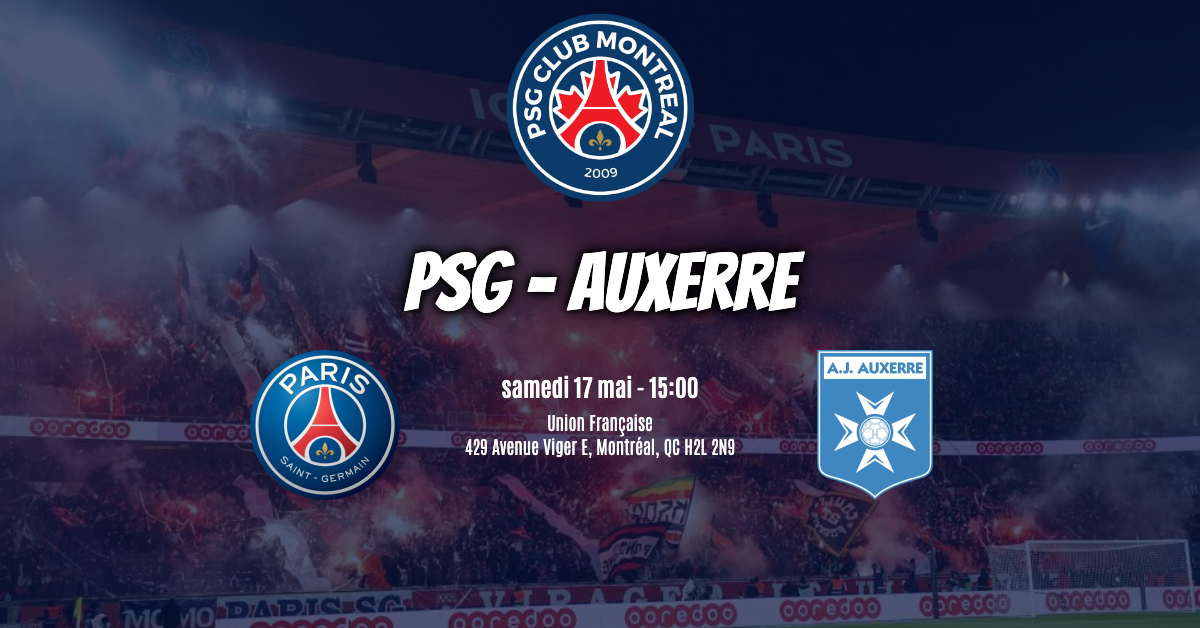
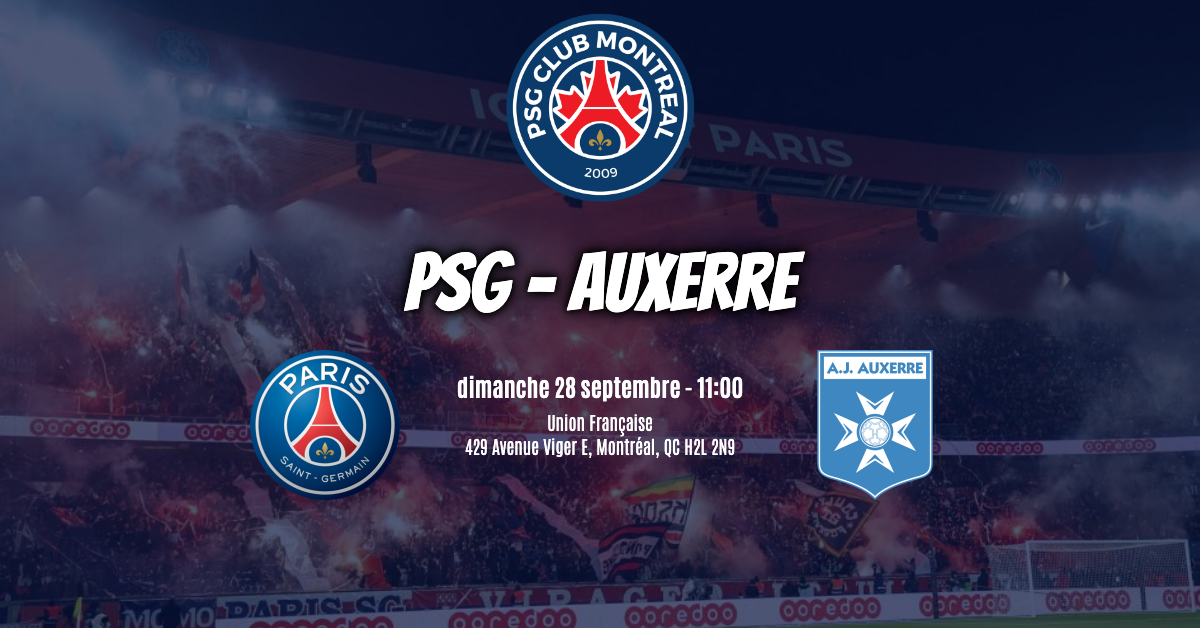
July games

Changed region(s): [[0.37, 0.5748, 0.6167, 0.6354]]

diff --git a/functions/matchGenerator/FootballAPI.js b/functions/matchGenerator/FootballAPI.js
@@ -1,10 +1,12 @@
+// NE SURTOUT PAS SE CONNECTER DIRECTEMENT A FOOTBALLAPI, UTILISER RAPIDAPI AVEC COMPTE GOOGLE @gmail.com
+
 const Match = require('./Match')
 const Generator = require('./generator')
 const moment = require('moment');
 
 var myHeaders = new Headers();
-myHeaders.append("x-rapidapi-key", "240db03edc49d645a20e60ed69bd1239");
-myHeaders.append("x-rapidapi-host", "v3.football.api-sports.io");
+myHeaders.append("x-rapidapi-key", "36a5aeb637msh9f0191ab0f64632p1a4e22jsneeb48d38444a");
+myHeaders.append("x-rapidapi-host", "api-football-v1.p.rapidapi.com");
 
 var requestOptions = {
     method: 'GET',
@@ -16,7 +18,7 @@ var requestOptions = {
 
 const getUpcomingGames = function () {
     return new Promise( (resolve, reject) => {
-        const url = new URL('https://v3.football.api-sports.io/fixtures')
+        const url = new URL('https://api-football-v1.p.rapidapi.com/v3/fixtures')
         const now = moment();
         const today = now.format('YYYY-MM-DD');
         const three_months_from_now = now.add(3, 'months').format('YYYY-MM-DD');

diff --git a/content/en/event/FIFA-Club-World-Cup-PSG-Bayern-M-nchen.md b/content/en/event/FIFA-Club-World-Cup-PSG-Bayern-M-nchen.md
@@ -1,17 +1,17 @@
 ---
-title: Marseille - PSG
-date: 2025-09-21T11:00:00.000-04:00
+title: PSG - Bayern München
+date: 2025-07-05T12:00:00.000-04:00
 publishdate: 2024-01-01T12:00:00.000-04:00
-expiryDate: 2025-09-22T03:00:00.000Z
-featureImage: images/event/Marseille-PSG-Insta.png
+expiryDate: 2025-07-06T04:00:00.000Z
+featureImage: images/event/PSG-Bayern München-Insta.png
 definitiveDate: true
 categories: Match
 eventType: match
-shortDescription: Ligue 1
-homeLogo: /images/teams/Marseille.png
-awayLogo: /images/teams/PSG.png
-homeTeam: Marseille
-awayTeam: PSG
+shortDescription: FIFA Club World Cup
+homeLogo: /images/teams/PSG.png
+awayLogo: /images/teams/Bayern München.png
+homeTeam: PSG
+awayTeam: Bayern München
 location: Union Française de Montréal
 link: https://facebook.com/psgclubmontreal/events
 ---

diff --git a/content/fr/event/FIFA-Club-World-Cup-PSG-Bayern-M-nchen.md b/content/fr/event/FIFA-Club-World-Cup-PSG-Bayern-M-nchen.md
@@ -1,17 +1,17 @@
 ---
-title: PSG - Auxerre
-date: 2025-09-28T11:00:00.000-04:00
+title: PSG - Bayern München
+date: 2025-07-05T12:00:00.000-04:00
 publishdate: 2024-01-01T12:00:00.000-04:00
-expiryDate: 2025-09-29T03:00:00.000Z
-featureImage: images/event/PSG-Auxerre-Insta.png
+expiryDate: 2025-07-06T04:00:00.000Z
+featureImage: images/event/PSG-Bayern München-Insta.png
 definitiveDate: true
 categories: Match
 eventType: match
-shortDescription: Ligue 1
+shortDescription: FIFA Club World Cup
 homeLogo: /images/teams/PSG.png
-awayLogo: /images/teams/Auxerre.png
+awayLogo: /images/teams/Bayern München.png
 homeTeam: PSG
-awayTeam: Auxerre
+awayTeam: Bayern München
 location: Union Française de Montréal
 link: https://facebook.com/psgclubmontreal/events
 ---

diff --git a/content/fr/event/Ligue-1-Marseille-PSG.md b/content/fr/event/Ligue-1-Marseille-PSG.md
@@ -1,8 +1,8 @@
 ---
 title: Marseille - PSG
-date: 2024-10-27T15:45:00.000-04:00
+date: 2025-09-21T11:00:00.000-04:00
 publishdate: 2024-01-01T12:00:00.000-04:00
-expiryDate: 2024-10-28T07:45:00.000Z
+expiryDate: 2025-09-22T03:00:00.000Z
 featureImage: images/event/Marseille-PSG-Insta.png
 definitiveDate: true
 categories: Match

diff --git a/content/en/event/Ligue-1-Toulouse-PSG.md b/content/en/event/Ligue-1-Toulouse-PSG.md
@@ -1,8 +1,8 @@
 ---
 title: Toulouse - PSG
-date: 2025-02-15T15:05:00.000-05:00
+date: 2025-08-31T11:00:00.000-04:00
 publishdate: 2024-01-01T12:00:00.000-04:00
-expiryDate: 2025-02-16T08:05:00.000Z
+expiryDate: 2025-09-01T03:00:00.000Z
 featureImage: images/event/Toulouse-PSG-Insta.png
 definitiveDate: true
 categories: Match

diff --git a/content/fr/event/Ligue-1-Toulouse-PSG.md b/content/fr/event/Ligue-1-Toulouse-PSG.md
@@ -1,8 +1,8 @@
 ---
 title: Toulouse - PSG
-date: 2025-02-15T15:05:00.000-05:00
+date: 2025-08-31T11:00:00.000-04:00
 publishdate: 2024-01-01T12:00:00.000-04:00
-expiryDate: 2025-02-16T08:05:00.000Z
+expiryDate: 2025-09-01T03:00:00.000Z
 featureImage: images/event/Toulouse-PSG-Insta.png
 definitiveDate: true
 categories: Match

diff --git a/content/en/event/Ligue-1-PSG-Auxerre.md b/content/en/event/Ligue-1-PSG-Auxerre.md
@@ -1,8 +1,8 @@
 ---
 title: PSG - Auxerre
-date: 2025-05-17T15:00:00.000-04:00
+date: 2025-09-28T11:00:00.000-04:00
 publishdate: 2024-01-01T12:00:00.000-04:00
-expiryDate: 2025-05-18T07:00:00.000Z
+expiryDate: 2025-09-29T03:00:00.000Z
 featureImage: images/event/PSG-Auxerre-Insta.png
 definitiveDate: true
 categories: Match

diff --git a/content/en/event/Ligue-1-Nantes-PSG.md b/content/en/event/Ligue-1-Nantes-PSG.md
@@ -1,8 +1,8 @@
 ---
 title: Nantes - PSG
-date: 2025-04-22T14:45:00.000-04:00
+date: 2025-08-17T11:00:00.000-04:00
 publishdate: 2024-01-01T12:00:00.000-04:00
-expiryDate: 2025-04-23T06:45:00.000Z
+expiryDate: 2025-08-18T03:00:00.000Z
 featureImage: images/event/Nantes-PSG-Insta.png
 definitiveDate: true
 categories: Match

diff --git a/content/en/event/Ligue-1-PSG-Angers.md b/content/en/event/Ligue-1-PSG-Angers.md
@@ -1,8 +1,8 @@
 ---
 title: PSG - Angers
-date: 2025-04-05T11:00:00.000-04:00
+date: 2025-08-24T11:00:00.000-04:00
 publishdate: 2024-01-01T12:00:00.000-04:00
-expiryDate: 2025-04-06T03:00:00.000Z
+expiryDate: 2025-08-25T03:00:00.000Z
 featureImage: images/event/PSG-Angers-Insta.png
 definitiveDate: true
 categories: Match

diff --git a/content/fr/event/Ligue-1-Nantes-PSG.md b/content/fr/event/Ligue-1-Nantes-PSG.md
@@ -1,8 +1,8 @@
 ---
 title: Nantes - PSG
-date: 2025-04-22T14:45:00.000-04:00
+date: 2025-08-17T11:00:00.000-04:00
 publishdate: 2024-01-01T12:00:00.000-04:00
-expiryDate: 2025-04-23T06:45:00.000Z
+expiryDate: 2025-08-18T03:00:00.000Z
 featureImage: images/event/Nantes-PSG-Insta.png
 definitiveDate: true
 categories: Match

diff --git a/content/fr/event/Ligue-1-PSG-Angers.md b/content/fr/event/Ligue-1-PSG-Angers.md
@@ -1,8 +1,8 @@
 ---
 title: PSG - Angers
-date: 2025-04-05T11:00:00.000-04:00
+date: 2025-08-24T11:00:00.000-04:00
 publishdate: 2024-01-01T12:00:00.000-04:00
-expiryDate: 2025-04-06T03:00:00.000Z
+expiryDate: 2025-08-25T03:00:00.000Z
 featureImage: images/event/PSG-Angers-Insta.png
 definitiveDate: true
 categories: Match

diff --git a/content/en/event/Ligue-1-PSG-Lens.md b/content/en/event/Ligue-1-PSG-Lens.md
@@ -1,8 +1,8 @@
 ---
 title: PSG - Lens
-date: 2024-11-02T12:00:00.000-04:00
+date: 2025-09-14T11:00:00.000-04:00
 publishdate: 2024-01-01T12:00:00.000-04:00
-expiryDate: 2024-11-03T04:00:00.000Z
+expiryDate: 2025-09-15T03:00:00.000Z
 featureImage: images/event/PSG-Lens-Insta.png
 definitiveDate: true
 categories: Match
